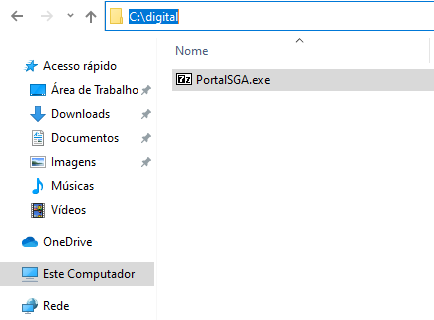
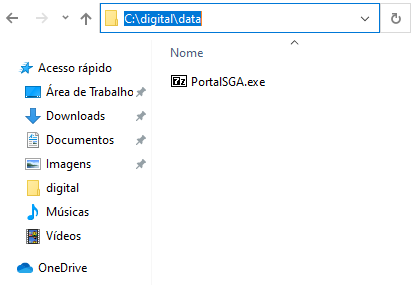
Updated

diff --git a/src/components/sections/FeaturesSplit.js b/src/components/sections/FeaturesSplit.js
@@ -179,7 +179,10 @@ const FeaturesSplit = ({
                   - No Explorador de Arquivos do Windows, acessa o caminho "<strong>C:\</strong>" e cria uma pasta com o nome "<strong>digital</strong>", caso não exista;
                 </p>
                 <p className="m-0">
-                  - Depois que finalizar o download do executável "<strong>PortalSGA</strong>", mova-o para dentro da pasta "<strong>digital</strong>", que acabamos de criar (<strong>C:\digital</strong>).
+                  - E dentro da pasta "<strong>digital</strong>" cria outra pasta com o nome "<strong>data</strong>";
+                </p>
+                <p className="m-0">
+                  - Depois que finalizar o download do executável "<strong>PortalSGA</strong>", mova-o para dentro da pasta "<strong>C:\digital\data</strong>", que acabamos de criar.
                 </p>
               </div>
               <div className={
@@ -205,17 +208,17 @@ const FeaturesSplit = ({
                   Instalando SGA Portal
                 </h3>
                 <p className="m-0">
-                  - Dentro da pasta "<strong>C:\digital</strong>";
+                  - Dentro da pasta "<strong>C:\digital\data</strong>";
                 </p>
                 <p className="m-0">
                   - Execute o arquivo "<strong>PortalSGA</strong>". Se aparecer uma chanela da "<strong>Microsoft defender</strong>", clique em "<strong>Mais informações</strong>" e clique no botão "<strong>Executar assim mesmo</strong>";
                 </p>
                 <p className="m-0">
-                  - Na chanela que abrir, clique no botão "<strong>Extract</strong>" e aguarde a finalização;
+                  - Na chanela que abrir, clique no botão "<strong>Extract</strong>" e aguarde a finalização.
                 </p>
-                <p className="m-0">
+                {/* <p className="m-0">
                   - Ao finalizar a extração, altere o nome da pasta "<strong>PortalSGA</strong>" para "<strong>data</strong>".
-                </p>
+                </p> */}
               </div>
               <div className={
                 classNames(
@@ -235,6 +238,218 @@ const FeaturesSplit = ({
               <div className="split-item-content center-content-mobile reveal-from-left" data-reveal-container=".split-item">
                 <div className="text-xxs text-color-primary fw-600 tt-u mb-8">
                   2.2 Ambiente
+                </div>
+                <h3 className="mt-0 mb-12">
+                  Instalando EasyPHP-Devserver-17
+                </h3>
+                <p className="m-0">
+                  - Abra a pasta "<strong>C:\digital\data\PortalSGA</strong>";
+                </p>
+                <p className="m-0">
+                  - Execute o arquivo "<strong>EasyPHP-Devserver-17.0-setup.exe</strong>", na tela que abrir escolha a linguagem;
+                </p>
+                <p className="m-0">
+                  - Na tela seguinte, troca o local de instalação para "<strong>C:\digital\data\</strong>";
+                </p>
+                <p className="m-0">
+                  - Depois que escolher o caminho da instalação, vai seguindo as próximas etapas até finalizar a instalação do EasyPHP-Devserver-17.
+                </p>
+              </div>
+              <div className={
+                classNames(
+                  'split-item-image center-content-mobile reveal-from-bottom',
+                  imageFill && 'split-item-image-fill'
+                )}
+                data-reveal-container=".split-item">
+                <Image
+                  src={require('./../../assets/images/dependencias11.png')}
+                  alt="Features split 03"
+                  width={528}
+                  height={396} />
+              </div>
+            </div>
+
+            <div className="split-item">
+              <div className="split-item-content center-content-mobile reveal-from-left" data-reveal-container=".split-item">
+                <div className="text-xxs text-color-primary fw-600 tt-u mb-8">
+                  2.3 Ambiente
+                </div>
+                <h3 className="mt-0 mb-12">
+                  Fechando o EasyPHP-Devserver-17
+                </h3>
+                <p className="m-0">
+                  - Se você não "<strong>desmarcou</strong>" a opção de iniciar o EasyPHP-Devserver-17 no final da instalação;
+                </p>
+                <p className="m-0">
+                  - Na barra de tarefas, clique com botão direito do mouse sobre o ícone do EasyPHP-Devserver-17;
+                </p>
+                <p className="m-0">
+                  - No menu que abrir, clique no botão "<strong>Exit</strong>".
+                </p>
+              </div>
+              <div className={
+                classNames(
+                  'split-item-image center-content-mobile reveal-from-bottom',
+                  imageFill && 'split-item-image-fill'
+                )}
+                data-reveal-container=".split-item">
+                <Image
+                  src={require('./../../assets/images/dependencias12.png')}
+                  alt="Features split 03"
+                  width={528}
+                  height={396} />
+              </div>
+            </div>
+
+            <div className="split-item">
+              <div className="split-item-content center-content-mobile reveal-from-left" data-reveal-container=".split-item">
+                <div className="text-xxs text-color-primary fw-600 tt-u mb-8">
+                  2.4 Ambiente
+                </div>
+                <h3 className="mt-0 mb-12">
+                  Alterando pasta data do EasyPHP-Devserver-17
+                </h3>
+                <p className="m-0">
+                  - Abra a pasta "<strong>C:\digital\data\PortalSGA</strong>" e copie a pasta "<strong>data</strong>";
+                </p>
+                <p className="m-0">
+                  - Abra a pasta "<strong>C:\digital\data\EasyPHP-Devserver-17\eds-binaries\dbserver\mysql5717x86x[<i>números que está na sua pasta</i>]</strong>" apague pasta "<strong>data</strong>" e "<strong>cole</strong>" a pasta "<strong>data</strong>" que copiamos anteriomente.
+                </p>
+              </div>
+              <div className={
+                classNames(
+                  'split-item-image center-content-mobile reveal-from-bottom',
+                  imageFill && 'split-item-image-fill'
+                )}
+                data-reveal-container=".split-item">
+                <Image
+                  src={require('./../../assets/images/dependencias13.png')}
+                  alt="Features split 03"
+                  width={528}
+                  height={396} />
+              </div>
+            </div>
+
+            <div className="split-item">
+              <div className="split-item-content center-content-mobile reveal-from-left" data-reveal-container=".split-item">
+                <div className="text-xxs text-color-primary fw-600 tt-u mb-8">
+                  2.5 Ambiente
+                </div>
+                <h3 className="mt-0 mb-12">
+                  Alterando pasta eds-www do EasyPHP-Devserver-17
+                </h3>
+                <p className="m-0">
+                  - Abra a pasta "<strong>C:\digital\data\PortalSGA</strong>" e copie a pasta "<strong>eds-www</strong>";
+                </p>
+                <p className="m-0">
+                  - Abra a pasta "<strong>C:\digital\data\EasyPHP-Devserver-17</strong>" apague pasta "<strong>eds-www</strong>" e "<strong>cole</strong>" a pasta "<strong>eds-www</strong>" que copiamos anteriomente.
+                </p>
+              </div>
+              <div className={
+                classNames(
+                  'split-item-image center-content-mobile reveal-from-bottom',
+                  imageFill && 'split-item-image-fill'
+                )}
+                data-reveal-container=".split-item">
+                <Image
+                  src={require('./../../assets/images/dependencias14.png')}
+                  alt="Features split 03"
+                  width={528}
+                  height={396} />
+              </div>
+            </div>
+
+            <div className="split-item">
+              <div className="split-item-content center-content-mobile reveal-from-left" data-reveal-container=".split-item">
+                <div className="text-xxs text-color-primary fw-600 tt-u mb-8">
+                  2.6 Ambiente
+                </div>
+                <h3 className="mt-0 mb-12">
+                  Alterando o arquivo eds.ini do EasyPHP-Devserver-17
+                </h3>
+                <p className="m-0">
+                  - Abra a pasta "<strong>C:\digital\data\PortalSGA</strong>" e copie o arquivo "<strong>eds.ini</strong>";
+                </p>
+                <p className="m-0">
+                  - Abra a pasta "<strong>C:\digital\data\EasyPHP-Devserver-17</strong>" e substitua o arquivo "<strong>eds.ini</strong>" no destino.
+                </p>
+              </div>
+              <div className={
+                classNames(
+                  'split-item-image center-content-mobile reveal-from-bottom',
+                  imageFill && 'split-item-image-fill'
+                )}
+                data-reveal-container=".split-item">
+                <Image
+                  src={require('./../../assets/images/dependencias15.png')}
+                  alt="Features split 03"
+                  width={528}
+                  height={396} />
+              </div>
+            </div>
+
+            <div className="split-item">
+              <div className="split-item-content center-content-mobile reveal-from-left" data-reveal-container=".split-item">
+                <div className="text-xxs text-color-primary fw-600 tt-u mb-8">
+                  2.7 Ambiente
+                </div>
+                <h3 className="mt-0 mb-12">
+                  Alterando o arquivo httpd.conf do EasyPHP-Devserver-17
+                </h3>
+                <p className="m-0">
+                  - Abra a pasta "<strong>C:\digital\data\PortalSGA</strong>" e copie o arquivo "<strong>httpd.conf</strong>";
+                </p>
+                <p className="m-0">
+                  - Abra a pasta "<strong>C:\digital\data\EasyPHP-Devserver-17\eds-binaries\httpdserver\apache2425vc11x86x[<i>números que está na sua pasta</i>]\conf</strong>" e substitua o arquivo "<strong>httpd.conf</strong>" no destino.
+                </p>
+              </div>
+              <div className={
+                classNames(
+                  'split-item-image center-content-mobile reveal-from-bottom',
+                  imageFill && 'split-item-image-fill'
+                )}
+                data-reveal-container=".split-item">
+                <Image
+                  src={require('./../../assets/images/dependencias16.png')}
+                  alt="Features split 03"
+                  width={528}
+                  height={396} />
+              </div>
+            </div>
+
+            <div className="split-item">
+              <div className="split-item-content center-content-mobile reveal-from-left" data-reveal-container=".split-item">
+                <div className="text-xxs text-color-primary fw-600 tt-u mb-8">
+                  2.8 Ambiente
+                </div>
+                <h3 className="mt-0 mb-12">
+                  Alterando o arquivo php.ini do EasyPHP-Devserver-17
+                </h3>
+                <p className="m-0">
+                  - Abra a pasta "<strong>C:\digital\data\PortalSGA</strong>" e copie o arquivo "<strong>php.ini</strong>";
+                </p>
+                <p className="m-0">
+                  - Abra a pasta "<strong>C:\digital\data\EasyPHP-Devserver-17\eds-binaries\php\php5630vc11x86x[<i>números que está na sua pasta</i>]</strong>" e substitua o arquivo "<strong>php.ini</strong>" no destino.
+                </p>
+              </div>
+              <div className={
+                classNames(
+                  'split-item-image center-content-mobile reveal-from-bottom',
+                  imageFill && 'split-item-image-fill'
+                )}
+                data-reveal-container=".split-item">
+                <Image
+                  src={require('./../../assets/images/dependencias17.png')}
+                  alt="Features split 03"
+                  width={528}
+                  height={396} />
+              </div>
+            </div>
+
+            <div className="split-item">
+              <div className="split-item-content center-content-mobile reveal-from-left" data-reveal-container=".split-item">
+                <div className="text-xxs text-color-primary fw-600 tt-u mb-8">
+                  3. Ambiente
                 </div>
                 <h3 className="mt-0 mb-12">
                   Instalando Dependências da API
@@ -266,7 +481,7 @@ const FeaturesSplit = ({
             <div className="split-item">
               <div className="split-item-content center-content-mobile reveal-from-left" data-reveal-container=".split-item">
                 <div className="text-xxs text-color-primary fw-600 tt-u mb-8">
-                  2.3 Ambiente
+                  4. Ambiente
                 </div>
                 <h3 className="mt-0 mb-12">
                   Adicionando Variável de Ambiente
@@ -281,7 +496,7 @@ const FeaturesSplit = ({
                   - Na tela que abrir, clique no botão "<strong>Variáveis de Ambiente</strong>, em seguida vai abrir outra tela, no menu "<strong>Variáveis do sistema</strong>", procure pela variável "<strong>Path</strong>", selecionea e clique em editar;
                 </p>
                 <p className="m-0">
-                  - Na tela que abrir, no menu lateral clique no botão "<strong>Novo</strong>", no campo que abrir, cole este caminho "<strong>C:\digital\data\EasyPHP-Devserver-17\eds-binaries\php\php5630vc11x86x190503172401</strong>" (sem as aspas), e em seguida clique em "<strong>Ok</strong>" até fecha todas as telas.
+                  - Na tela que abrir, no menu lateral clique no botão "<strong>Novo</strong>", no campo que abrir, cole este caminho da pasta "<strong>C:\digital\data\EasyPHP-Devserver-17\eds-binaries\php\php5630vc11x86x[<i>números que está na sua pasta</i>]</strong>", e em seguida clique em "<strong>Ok</strong>" até fecha todas as telas.
                 </p>
               </div>
               <div className={
@@ -301,7 +516,7 @@ const FeaturesSplit = ({
             <div className="split-item">
               <div className="split-item-content center-content-mobile reveal-from-left" data-reveal-container=".split-item">
                 <div className="text-xxs text-color-primary fw-600 tt-u mb-8">
-                  2.4 Ambiente
+                  5. Ambiente
                 </div>
                 <h3 className="mt-0 mb-12">
                   Configurando IP da API
@@ -333,7 +548,7 @@ const FeaturesSplit = ({
             <div className="split-item">
               <div className="split-item-content center-content-mobile reveal-from-left" data-reveal-container=".split-item">
                 <div className="text-xxs text-color-primary fw-600 tt-u mb-8">
-                  3. Ambiente
+                  6. Ambiente
                 </div>
                 <h3 className="mt-0 mb-12">
                   Executando API Node.js
@@ -374,7 +589,7 @@ const FeaturesSplit = ({
             <div className="split-item">
               <div className="split-item-content center-content-mobile reveal-from-left" data-reveal-container=".split-item">
                 <div className="text-xxs text-color-primary fw-600 tt-u mb-8">
-                  3.1 Ambiente
+                  6.1 Ambiente
                 </div>
                 <h3 className="mt-0 mb-12">
                   Executando Socket

diff --git a/src/components/sections/Hero.js b/src/components/sections/Hero.js
@@ -73,7 +73,7 @@ const Hero = ({
                     tag="a"
                     color="primary"
                     wideMobile
-                    href="https://drive.google.com/file/d/1Bnzlb972MAbQ95AMF_h63c2aJuCnZCFJ/view?usp=sharing"
+                    href="https://drive.google.com/file/d/1UxaxXr3UpLc_DDAY-kESAGGcdvmNYTpQ/view?usp=sharing"
                     target="_blank"
                   >
                     Download Arquivos
